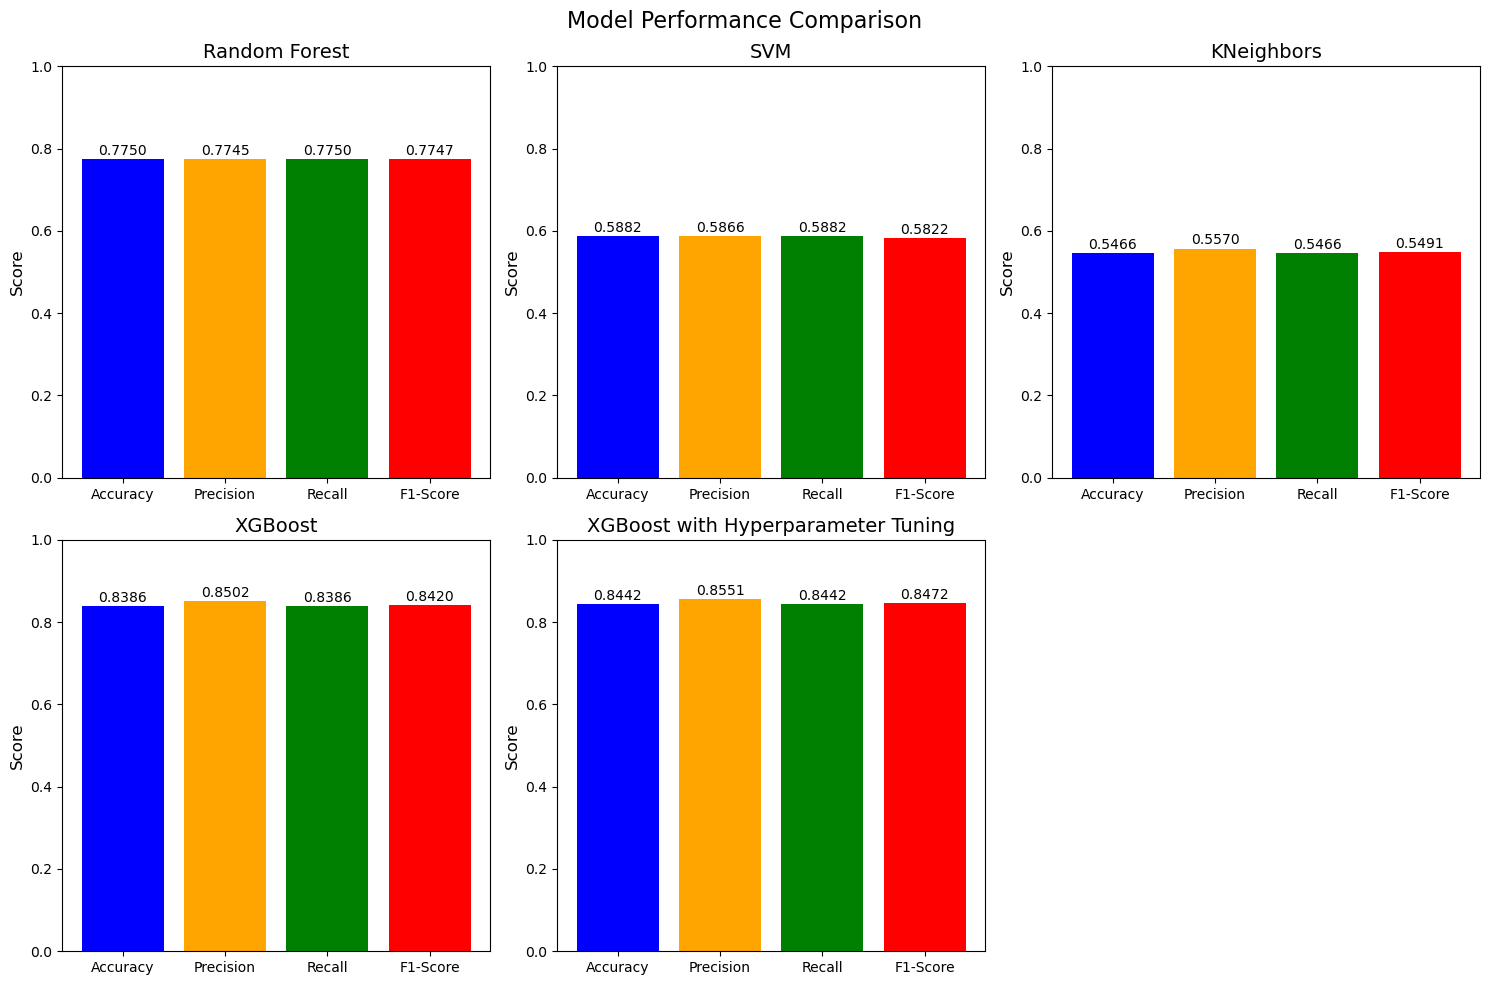
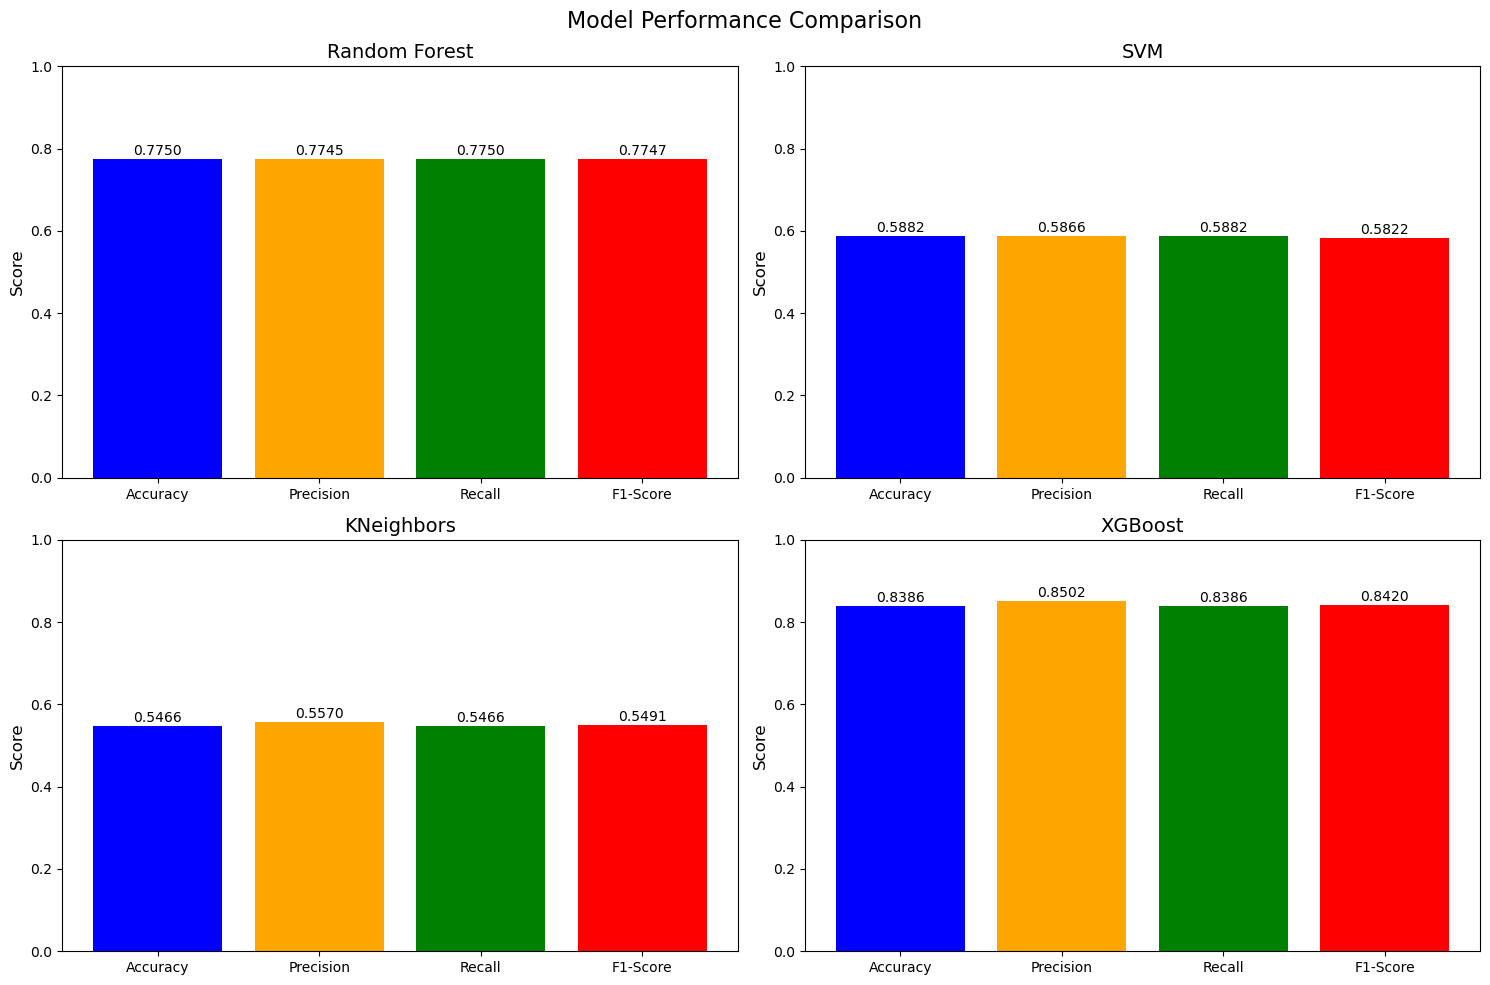
adding detail to model selection, hyperparameter tuning, final model, conclusion

diff --git a/README.md b/README.md
@@ -122,30 +122,36 @@ STEPS TAKEN FOR PREPOCESSING TO BE ADDED HERE
 
 ![XGBoost Pipeline.png](./image/XGBoost_Pipeline.png)
 
+Before model training and selection process the data was split into training and test sets using an 80/20 split, where 80% of the data was used for training and 20% for testing.
 
 ## Model Selection
 
-STEPS TAKEN FOR MODEL SELECTION TO BE ADDED HERE (TRAIN/TEST SPLIT, TRAINING ACCURACY & CLASSIFICATION REPORT RESULTS)
+After the data was processed and a pipeline setup a few models were trained to evaluate their performance on predicting car body styles. The selected algorithms were: RandomForest, Supporting Vector Machine, KNeighbors, and XGBoost. Initial training accuracy was computed for each model to assess its fit to the training and test data. A classification report was also generated for each model to evaluate precision, recall, F1 score. Based on these metrics, the model with the highest overall performance (XGBoost) was chosen for further tuning. See below for the performance comparison.
+
+<img src="./image/Model_Performance_Comparison.png" width="300"/>
 
 ## Hyperparameter Tuning
 
-STEPS TAKEN FOR TUNING USING GRIDSEARCH TO BE ADDED HERE (EXPLAIN THE PARAMETERS TUNED)
+Next, GridSearchCV was used to fine-tune the hyperparameters of the XGBoost model. The hyperparameters tuned included the number of estimators (n_estimators), maximum depth of trees (max_depth), learning rate, and subsample ratio. A grid search was performed with cross-validation to find the best combination of these parameters that would maximize model performance. The grid search tested several combinations of parameter values to optimize the XGBoost classifier. The best set of hyperparameters was selected based on the performance metrics, particularly accuracy and F1 score.
+
 
 ## Evaluate Final Model
 
-![confusion matrix.png](./image/confusion_matrix.png)
+After hyperparameter tuning with GridSearchCV, the final model was trained using the optimal parameters. The model's performance was evaluated on the test set using a classification report and accuracy score. See graph below showing the resulting accuracy, precision, recall, and F1 score. These results were compared against the previous models to assess the improvement brought by tuning. A confusion matrix was also plotted to further evaluate the model's prediction accuracy across different classes.
+
+<img src="./image/Final_Model_Performance.png" width="300"/>
 
 ## Conclusion
 
-CONCLUSION TO BE ADDED
+The model selection and hyperparameter tuning process led to the identification of the XGBoost classifier with optimal parameters as the best-performing model. The model achieved high accuracy and balanced performance across precision, recall, and F1 score. Hyperparameter tuning significantly improved the model's performance compared to the baseline models. The final model's results were validated using a confusion matrix and compared with the results of other classifiers. Overall, the tuned XGBoost model proved to be the most reliable for predicting car body styles based on customer data.
 
 ## Future Work
 
-Improvements to classification model:
+Improvements to classification work:
 
 - Add validation split as well (75% training, 10% validation, 15% testing)
-- Add ROC/AUC curves & Metrics progression chart (Bar char of bar charts)
-
+- Add training vs validation vs training metrics
+- Add ROC/AUC curves
 
 Using a regression model to to predict customer spending Behavior based on Income, Gender, and Region:
 
